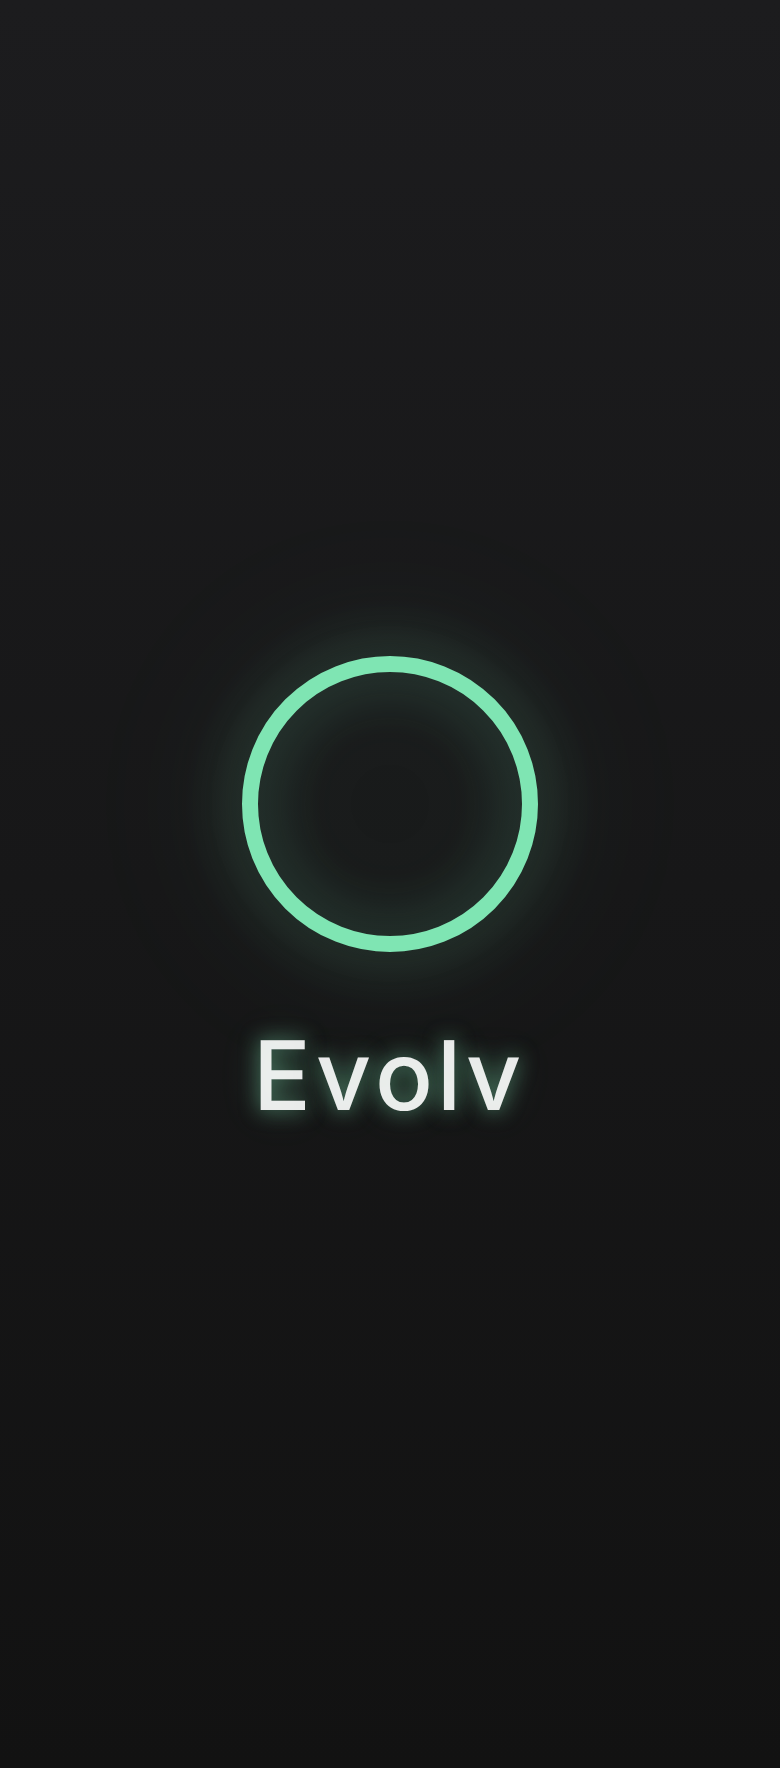
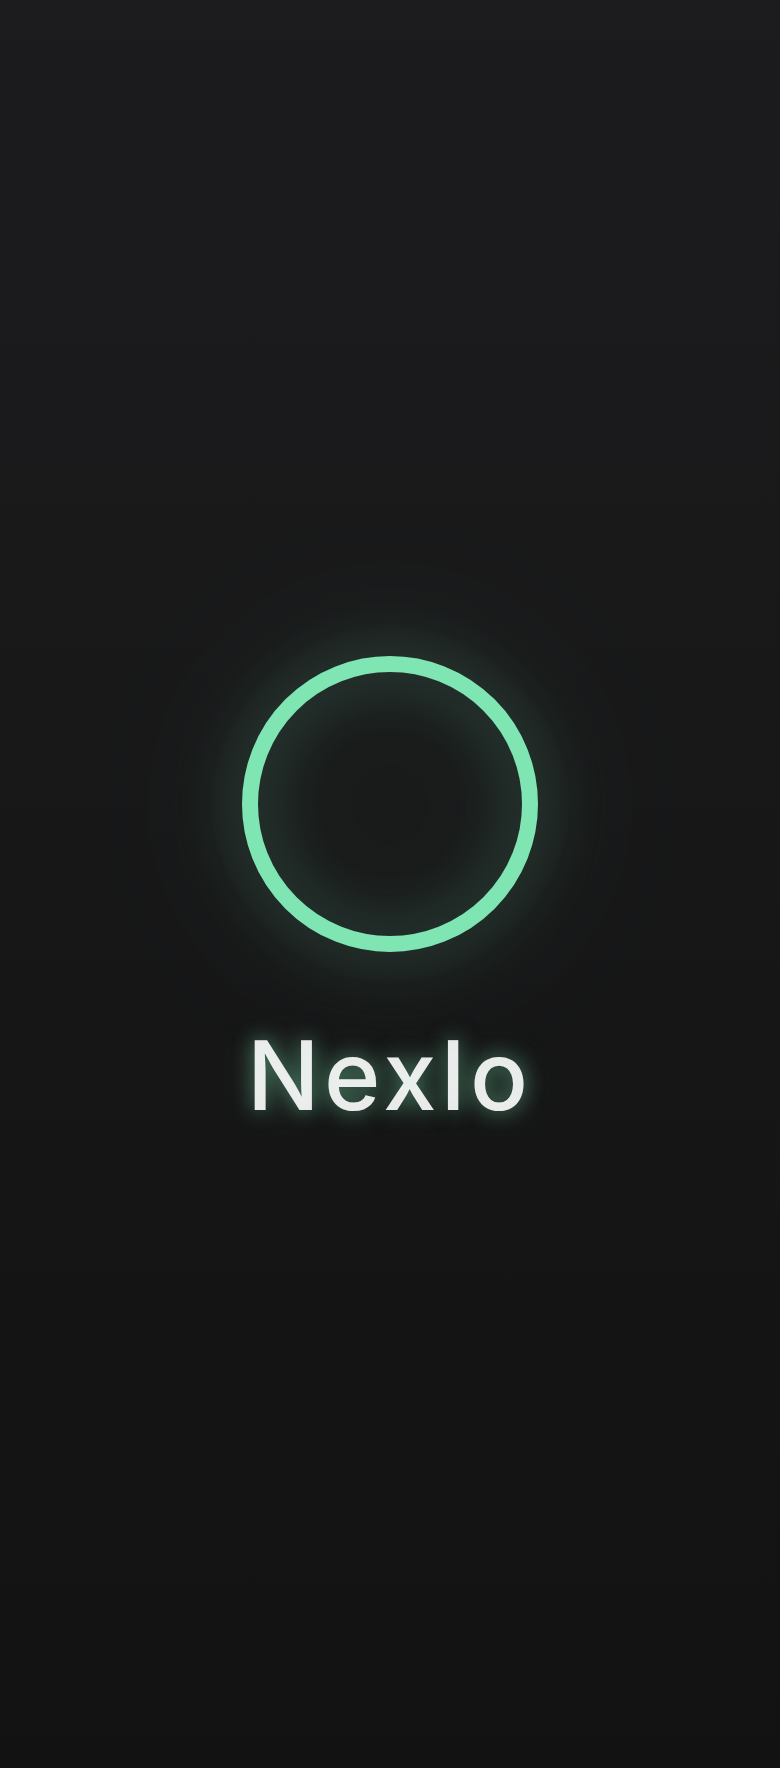
changing name from Evolv to Nexlo

Changed region(s): [[0.3077, 0.5911, 0.6769, 0.6533]]

diff --git a/lib/screens/settings_screen.dart b/lib/screens/settings_screen.dart
@@ -181,7 +181,7 @@ class _SettingsScreenState extends State<SettingsScreen> {
                     _SettingDivider(),
                     _SettingButtonTile(
                       icon: Icons.favorite_outline_rounded,
-                      title: 'Support Evolv 💚',
+                      title: 'Support Nexlo 💚',
                       onTap: () {
                         Navigator.push(
                           context,
@@ -225,7 +225,7 @@ class _SettingsScreenState extends State<SettingsScreen> {
               Column(
                 children: [
                   Text(
-                    'Evolv v1.0.0',
+                    'Nexlo v1.0.0',
                     style: TextStyle(
                       fontFamily: 'Inter',
                       color: isDark ? Colors.white54 : Colors.black54,
@@ -257,8 +257,8 @@ class _SettingsScreenState extends State<SettingsScreen> {
   void _contactSupport() async {
     final Uri emailLaunchUri = Uri(
       scheme: 'mailto',
-      path: 'support@evolvapp.site',
-      queryParameters: {'subject': 'Evolv App Support'},
+      path: 'support@nexlo.site',
+      queryParameters: {'subject': 'Nexlo App Support'},
     );
     if (await canLaunchUrl(emailLaunchUri)) {
       await launchUrl(emailLaunchUri);
@@ -266,7 +266,7 @@ class _SettingsScreenState extends State<SettingsScreen> {
   }
 
   Future<void> _openPrivacyPolicy() async {
-    final Uri url = Uri.parse('https://evolvapp.site/privacy');
+    final Uri url = Uri.parse('https://nexlo.site/privacy');
     if (!await launchUrl(url, mode: LaunchMode.externalApplication)) {
       ScaffoldMessenger.of(context).showSnackBar(
         const SnackBar(
@@ -323,7 +323,7 @@ class _SettingsScreenState extends State<SettingsScreen> {
           child: Column(
             mainAxisSize: MainAxisSize.min,
             children: [
-              // small Evolv icon
+              // small Nexlo icon
               Container(
                 width: 52,
                 height: 52,
@@ -342,7 +342,7 @@ class _SettingsScreenState extends State<SettingsScreen> {
               const SizedBox(height: 18),
 
               Text(
-                "About Evolv",
+                "About Nexlo",
                 style: TextStyle(
                   fontFamily: 'Inter',
                   fontWeight: FontWeight.w700,
@@ -354,7 +354,7 @@ class _SettingsScreenState extends State<SettingsScreen> {
               const SizedBox(height: 16),
 
               Text(
-                "Evolv helps you grow through\nconsistent skill practice.",
+                "Nexlo helps you grow through\nconsistent skill practice.",
                 textAlign: TextAlign.center,
                 style: TextStyle(
                   fontFamily: 'Inter',

diff --git a/lib/screens/backup_screen.dart b/lib/screens/backup_screen.dart
@@ -39,12 +39,12 @@ class _BackupScreenState extends State<BackupScreen> {
 
       final jsonStr = jsonEncode(data);
       final dir = await getTemporaryDirectory();
-      final file = File('${dir.path}/evolv_backup.json');
+      final file = File('${dir.path}/nexlo_backup.json');
       await file.writeAsString(jsonStr);
 
       final shareResult = await Share.shareXFiles(
         [XFile(file.path)],
-        text: '📦 Here is your Evolv backup file.',
+        text: '📦 Here is your Nexlo backup file.',
         // фикс для iOS: non-zero rect
         sharePositionOrigin: Rect.fromCenter(
           center: MediaQuery.of(context).size.center(Offset.zero),
@@ -280,7 +280,7 @@ for (final raw in sessionsJson) {
               ),
               const SizedBox(height: 16),
               Text(
-                'Export or restore your Evolv data',
+                'Export or restore your Nexlo data',
                 textAlign: TextAlign.center,
                 style: theme.textTheme.bodyLarge?.copyWith(
                   fontFamily: 'Inter',

diff --git a/lib/screens/tip_jar_screen.dart b/lib/screens/tip_jar_screen.dart
@@ -11,7 +11,7 @@ class TipJarScreen extends StatelessWidget {
     return Scaffold(
       appBar: AppBar(
         title: Text(
-          'Support Evolv',
+          'Support Nexlo',
           style: TextStyle(
             fontFamily: 'Inter',
             fontWeight: FontWeight.w700,
@@ -72,7 +72,7 @@ class TipJarScreen extends StatelessWidget {
             const SizedBox(height: 10),
 
             Text(
-              'Thank you for supporting Evolv 💚',
+              'Thank you for supporting Nexlo 💚',
               textAlign: TextAlign.center,
               style: TextStyle(
                 fontFamily: 'Inter',
@@ -86,7 +86,7 @@ class TipJarScreen extends StatelessWidget {
 
             /// Нижний текст
             Text(
-              'Evolv will stay ad-free.\nYour support means a lot.',
+              'Nexlo will stay ad-free.\nYour support means a lot.',
               textAlign: TextAlign.center,
               style: TextStyle(
                 fontFamily: 'Inter',

diff --git a/lib/main.dart b/lib/main.dart
@@ -37,7 +37,7 @@ class EvolvApp extends StatelessWidget {
     final themeProvider = Provider.of<ThemeProvider>(context);
 
     return MaterialApp(
-      title: 'Evolv',
+      title: 'Nexlo',
       debugShowCheckedModeBanner: false,
       theme: evolvLightTheme(),
       darkTheme: evolvDarkTheme(),
